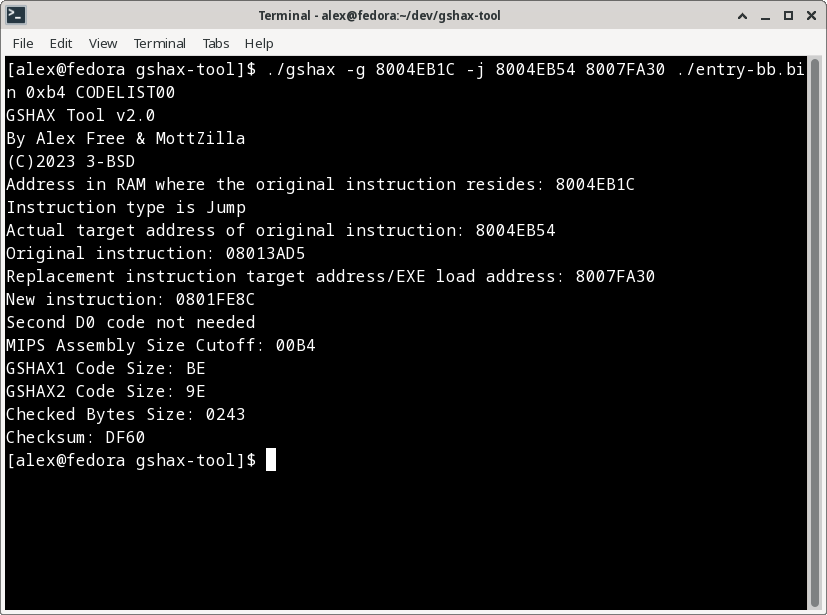
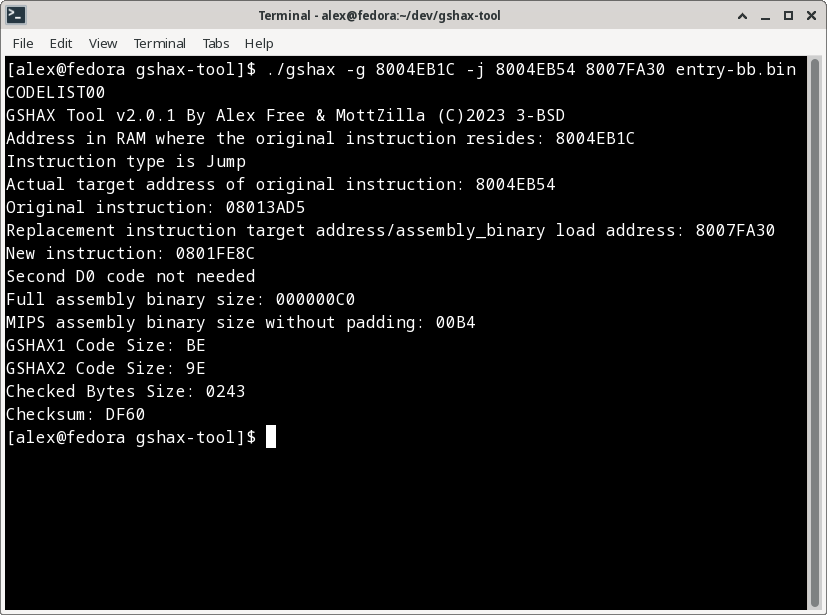
v2.0.1

diff --git a/gshax.c b/gshax.c
@@ -1,6 +1,6 @@
 /*
 BSD 3-Clause License
-Copyright (c) 2023, Alex Free & MottZilla
+Copyright (c) 2023, Alex Free, MottZilla
 All rights reserved.
 Redistribution and use in source and binary forms, with or without
 modification, are permitted provided that the following conditions are met:
@@ -29,9 +29,10 @@ OF THIS SOFTWARE, EVEN IF ADVISED OF THE POSSIBILITY OF SUCH DAMAGE.
 #include <string.h>
 #include <stdbool.h>
 
-FILE *exe, *out;
+FILE *assembly_binary, *out;
 
-unsigned int mips_assembly_bin_cutoff_offset;
+unsigned int assembly_binary_padding_offset = 0;
+unsigned int assembly_binary_len;
 unsigned int current_fpos = 0;
 unsigned int bytes_counter = 0;
 
@@ -58,6 +59,7 @@ unsigned char gs_write_byte_2;
 unsigned char gshax1_code_size = 0x80; // Code list counters always start with this offset
 unsigned char gshax2_code_size = 0x80;
 unsigned char instruction_type;
+unsigned char zero_test;
 //unsigned char wipeout[] = { 0x57, 0x49, 0x50, 0x45, 0x4F, 0x55, 0x54}; test 'WIPEOUT' known game title
 
 unsigned char start_card[] = {
@@ -160,7 +162,7 @@ void gen_txt()
 
     while(1)
     {
-        if(current_fpos == mips_assembly_bin_cutoff_offset)
+        if(current_fpos == assembly_binary_padding_offset)
             break;
 
         gs_write_byte_1 = buf[current_fpos];
@@ -257,7 +259,7 @@ void gen_gslite_save()
 
     while(1)
     {
-        if(current_fpos == mips_assembly_bin_cutoff_offset)
+        if(current_fpos == assembly_binary_padding_offset)
             break;
 
         if(bytes_counter == 0x174) // 64 line limit of codes per 'code entry'.
@@ -354,11 +356,11 @@ void gen_gslite_save()
 int main (int argc, const char * argv[]) 
 {
 
-    printf("GSHAX Tool v2.0\nBy Alex Free & MottZilla\n(C)2023 3-BSD\n");
+    printf("GSHAX Tool v2.0.1 By Alex Free & MottZilla (C)2023 3-BSD\n");
 
-   if(argc != 9)
+   if(argc != 8)
     {
-        printf("Error: gshax requires 8 arguments\n\ngshax <file output mode> <address in RAM where the original instruction resides> <instruction type> <actual target address of original instruction> <custom replacement target address/EXE load address for instruction> <mips assembly binary> <mips assembly binary padding cutoff offset> <output file>\n\nExplanation of arguments:\n\n<file output mode>    This must be -g (to generate a GameShark Lite save game file) or -t (to generate a txt file containing the codes).\n\n<address in RAM where the original instruction resides>   This is the literal RAM address that the instruction is loaded to.\n\n<instruction type>   This must be -j (for a jump instruction type that you want to change) or -jal (for a jump and link instruction type that you want to change).\n\n<actual target address of the original instruction>  This is the actual address that the original instruction either jumps or jump and links to.\n\n<custom replacement target address/EXE load address for instruction>    This is the address in RAM that is freely available and not in use at the time of the jump or jump and link instruction.\n\n<mips assembly binary>   This is the MIPS binary filepath/filename that will be jumped to by the modified instruction.\n\n<mips assembly binary padding cutoff offset>    This must be an even amount of bytes, it sets the offset to disregard any extra padding in the MIPS binary used.\n\n<output file>    This is the filepath/filename of the GameShark Lite save game file (must be CODELIST00 in that file output mode) or the name of the txt file generated by GSHAX tool.\n\n");
+        printf("Error: gshax requires 8 arguments\n\ngshax <file output mode> <address in RAM where the original instruction resides> <instruction type> <actual target address of original instruction> <custom replacement target address/assembly_binary load address for instruction> <mips assembly_binary> <output file>\n\nExplanation of arguments:\n\n<file output mode>    This must be -g (to generate a GameShark Lite save game file) or -t (to generate a txt file containing the codes).\n\n<address in RAM where the original instruction resides>   This is the literal RAM address that the instruction is loaded to.\n\n<instruction type>   This must be -j (for a jump instruction type that you want to change) or -jal (for a jump and link instruction type that you want to change).\n\n<actual target address of the original instruction>  This is the actual address that the original instruction either jumps or jump and links to.\n\n<custom replacement target address/assembly_binary load address for instruction>    This is the address in RAM that is freely available and not in use at the time of the jump or jump and link instruction.\n\n<mips assembly_binary>   This is the MIPS binary filepath/filename that will be jumped to by the modified instruction.\n\n<output file>    This is the filepath/filename of the GameShark Lite save game file (must be CODELIST00 in that file output mode) or the name of the txt file generated by GSHAX tool.\n\n");
         return(1);
     }
 
@@ -389,7 +391,7 @@ int main (int argc, const char * argv[])
     printf("Original instruction: %08X\n", original_instruction_val);
 
     new_instruction = strtoul(argv[5], NULL, 16);
-    printf("Replacement instruction target address/EXE load address: %08X\n", new_instruction);
+    printf("Replacement instruction target address/assembly_binary load address: %08X\n", new_instruction);
     bytes=(unsigned char *)&new_instruction;
     new_instruction_val = bytes[0] + (bytes[1] << 8) + (bytes[2] << 16);
     new_instruction_val = (new_instruction_val / 4);
@@ -421,46 +423,60 @@ int main (int argc, const char * argv[])
         compare_code_2_enable = 0;
     }
 
-    if((exe = fopen(argv[6], "rb+")) == NULL)
+    if((assembly_binary = fopen(argv[6], "r")) == NULL)
     {
-        printf("Error: Cannot open the executable file: %s\n", argv[6]);
+        printf("Error: Cannot open the assembly_binary file: %s\n", argv[6]);
         return(1);
     }
 
-    mips_assembly_bin_cutoff_offset = strtoul(argv[7], NULL, 16);
-    // currently only handles a maximum of up to 2 code entries. Each code entry can be up to 64 lines in length. The first 4 lines are taken up by the 2 D0 compare codes. So 60 * 2 = 120. 64 * 2 = 128. 120+128= 248 or 0xF8.
-    
-    if(mips_assembly_bin_cutoff_offset > 0xF8)
+    fseek(assembly_binary, 0, SEEK_END); // seek to end of assembly binary
+    assembly_binary_len = ftell(assembly_binary); // get total size of assembly binary
+    printf("Full assembly binary size: %08X\n", assembly_binary_len);
+
+    while(assembly_binary_len > assembly_binary_padding_offset) // assembly binary padding offset starts at 0, and is increased each loop
     {
-        printf("Error: the MIPS Assembly bin cutoff offset: %02X is too large, the maximum filesize is 248 (decimal) or 0xF8 (hex) bytes!\n", mips_assembly_bin_cutoff_offset);
-        return(1);
-    } else {
-        printf("MIPS Assembly Size Cutoff: %04X\n", mips_assembly_bin_cutoff_offset);
+        fseek(assembly_binary, (assembly_binary_len-assembly_binary_padding_offset-1), SEEK_SET); // each loop, move in file one byte back + the current assembly binary padding offset
+        zero_test = fgetc(assembly_binary); // read current byte at this file position
+        //printf("%02X\n", zero_test);
+    
+        if(zero_test != 0)
+        {
+            break; // if this is 0x00, then we don't need to write a code for it because we are already placing the assembly binary in a portion of RAM that consists of 0x00 bytes large enough to store the entire assembly binary
+        }  else {
+            assembly_binary_padding_offset++; // All bytes have been 0x00 so far, going backwards in the mips assembly binary file. So keep going until this is not the case
+        }
     }
 
-    if(mips_assembly_bin_cutoff_offset % 2 != 0)
+    assembly_binary_padding_offset = (assembly_binary_len - assembly_binary_padding_offset); // assembly binary len is still the same original value, the total size of the assembly. Subtract the final assembly binary padding offset value to get the real value we want to use as a stopping point for converting the assembly binary into 80 type GameShark codes
+
+    if(assembly_binary_padding_offset % 2 != 0)
+        assembly_binary_padding_offset++; // turn odd to even, must be even because each line of 80 type GameShark codes writes 2 bytes at a given address
+
+    if(assembly_binary_padding_offset > 0xF8)
     {
-        printf("Error: the MIPS Assembly bin cutoff offset: %02X is not divisible by two, and can not be used!\n", mips_assembly_bin_cutoff_offset);
+        printf("Error: the MIPS assembly bin cutoff offset: %02X is too large, the current maximum filesize is 248 (decimal) or 0xF8 (hex) bytes!\n", assembly_binary_padding_offset);
         return(1);
     }
-    
-    fseek(exe, 0, SEEK_SET);
-    buf = (unsigned char *)malloc(mips_assembly_bin_cutoff_offset * sizeof(unsigned char));
-    fread(buf, mips_assembly_bin_cutoff_offset, 1, exe);
+
+    printf("MIPS assembly binary size without padding: %04X\n", assembly_binary_padding_offset);
+
+    fseek(assembly_binary, 0, SEEK_SET);
+    buf = (unsigned char *)malloc(assembly_binary_padding_offset * sizeof(unsigned char));
+    fread(buf, assembly_binary_padding_offset, 1, assembly_binary);
 
 
     if((strcmp("-g", argv[1])) == 0) 
     {
-        if((out = fopen(argv[8], "wb+")) == NULL)
+        if((out = fopen(argv[7], "wb+")) == NULL)
         {
-            printf("Error: Cannot create the output file: %s\n", argv[8]);
+            printf("Error: Cannot create the output file: %s\n", argv[7]);
             return(1);
         }
         gen_gslite_save();
     } else if((strcmp("-t", argv[1])) == 0) {
-        if((out = fopen(argv[8], "w+")) == NULL)
+        if((out = fopen(argv[7], "w+")) == NULL)
         {
-            printf("Error: Cannot create the output file: %s\n", argv[8]);
+            printf("Error: Cannot create the output file: %s\n", argv[7]);
             return(1);
         }            
         gen_txt();
@@ -470,5 +486,5 @@ int main (int argc, const char * argv[])
     }
 
     fclose(out);
-    fclose(exe);
+    fclose(assembly_binary);
 }

diff --git a/readme.md b/readme.md
@@ -16,30 +16,31 @@ As an example of usefulness, GSHAX codes are [used](https://github.com/alex-free
 *	[Github](https://github.com/alex-free/gshax-tool)
 *	[Tonyhax International](https://alex-free.github.io/tonyhax-international)
 *   [PSXDev Research Thread On GSHAX Codes](http://www.psxdev.net/forum/viewtopic.php?f=70&t=4032)
+*   [GBATemp Thread](https://gbatemp.net/threads/gshax-tool-create-psx-gameshark-codes-that-gain-code-execution-mid-game.625277/)
 
 ## Downloads
 
-### Version 2.0 (3/28/2023)
+### Version 2.0.1 (4/3/2023)
 
-*	[gshax-tool-v2.0-windows\_x86](https://github.com/alex-free/gshax-tool/releases/download/v2.0/gshax-tool-v2.0-windows_x86.zip) _For Windows 95 OSR 2.5 Or Newer (32-bit Windows)_
-*	[gshax-tool-v2.0-windows\_x86\_64](https://github.com/alex-free/gshax-tool/releases/download/v2.0/gshax-tool-v2.0-windows_x86_64.zip) _For 64-bit Windows_
-*	[gshax-tool-v2.0-linux\_x86](https://github.com/alex-free/gshax-tool/releases/download/v2.0/gshax-tool-v2.0-linux_x86_static.zip) _For x86 Linux Distros_
-*	[gshax-tool-v2.0-linux\_x86\_64](https://github.com/alex-free/gshax-tool/releases/download/v2.0/gshax-tool-v2.0-linux_x86_64_static.zip) _For x86\_64 Linux Distros_
-*	[gshax-tool-v2.0-source](https://github.com/alex-free/gshax-tool/archive/refs/tags/v2.0.zip)
+*	[gshax-tool-v2.0.1-windows\_x86](https://github.com/alex-free/gshax-tool/releases/download/v2.0.1/gshax-tool-v2.0.1-windows_x86.zip) _For Windows 95 OSR 2.5 Or Newer (32-bit Windows)_
+*	[gshax-tool-v2.0.1-windows\_x86\_64](https://github.com/alex-free/gshax-tool/releases/download/v2.0.1/gshax-tool-v2.0.1-windows_x86_64.zip) _For 64-bit Windows_
+*	[gshax-tool-v2.0.1-linux\_x86](https://github.com/alex-free/gshax-tool/releases/download/v2.0.1/gshax-tool-v2.0.1-linux_x86_static.zip) _For x86 Linux Distros_
+*	[gshax-tool-v2.0.1-linux\_x86\_64](https://github.com/alex-free/gshax-tool/releases/download/v2.0.1/gshax-tool-v2.0.1-linux_x86_64_static.zip) _For x86\_64 Linux Distros_
+*	[gshax-tool-v2.0.1-source](https://github.com/alex-free/gshax-tool/archive/refs/tags/v2.0.1.zip)
 
 Changes:
 
-*   GSHAX Tool now requires 8 arguments, as it now uses a completely new method to edit either an existing jump or jump and link in-game instruction. This is a total rewrite, which removes the kludges that were the original 'mode 0' and 'mode 1' functionalities. It enables generating codes for any game (in theory).
+*   The MIPS assembly binary padding offset is now calculated automatically by the tool itself, which means GSHAX Tool now requires 7 arguments instead of 8. 
 
 [About previous versions.](changelog.md)
 
 ## Table Of Contents
 
 *   [Usage](#usage)
-*   [Step 1: Setup The DuckStation Emulator](#step-1-setup-the-duckstation)
+*   [Step 1: Setup The DuckStation Emulator](#step-1-setup-the-duckstation-emulator)
 *   [Step 2: Find An Exploitable CPU Instruction In The Target Game](#step-2-find-an-exploitable-cpu-instruction-in-the-target-game)
 *   [Step 3: The MIPS Assembly Binary](#step-3-the-mips-assembly-binary)
-*   [Step 4: Gathe Inputs For Code Creation](#step-4-gather-inputs-for-code-creation)
+*   [Step 4: Gather Inputs For Code Creation](#step-4-gather-inputs-for-code-creation)
 *   [Step 5: Generate Codes](#step-5-generate-codes)
 *   [License](#license)
 *   [Compile From Source](#compile-from-source)
@@ -127,7 +128,7 @@ Now, I choose an address well past the start of unused RAM, not really for any r
 
 **Important Info:** I have a theory that the memory cards must be initialized by the game code before the exploitable instruction is executed. While most games do this almost immediately, some games appear to not do so until entering the memory card handling functions (save/load game in the main menu for instance). WipEout appears to be like this.
 
-## Step 4: The MIPS Assembly Binary
+## Step 3: The MIPS Assembly Binary
 
 As the goal is to run your own MIPS assembly binary instead of the in-game function normally jumped or jump and linked to, you need a MIPS assembly binary file to run.
 
@@ -135,15 +136,15 @@ The original Tonyhax uses a stage 1 loader, which is a small bit of assembly exe
 
 Tonyhax International has an extremely cut down version of the original stage 1 loader available, found at `entrypoints/entry-bb.bin` in the Tonyhax International releases. The extremely cut down version of the stage 1 loader is used in save game exploits for games such as Tekken 2, Tekken 3, and Final Fantasy IV, all which require a smaller loader then what the original Tonyhax used. This is important for GSHAX Tool because the larger the size of the MIPS assembly binary, the more GameShark code lines that are required. Every 2 bytes of the MIPS assembly binary requires an additional GameShark code line. There is also a current file size limit (that may be extended, it just hasn't been needed yet).  
 
-The MIPS assembly binary itself can be no more the `0xF8` bytes in size. The Tonyhax International `entrypoints/entry-bb.bin` file is `0xb4` bytes in when you ignore the padding of `0x00` bytes in this file:
+The MIPS assembly binary itself can be no more the `0xF8` bytes in size, ignoring any `0x00` trailing padding bytes at the end of the file. GSHAX Tool automatically ignores any `0x00` byte padding when reading the mips assembly binary, so it will let you know if the MIPS assembly binary is too large to use with the tool. 
+
+For example, the Tonyhax International `entrypoints/entry-bb.bin` file is `0xC0` bytes in size. However GSHAX Tool ignores the trailing `0x00` bytes (which you can see in i.e. the hex editor image below), which means really it is `0xb4` bytes as far as GSHAX Tool is concerned.
 
 ![Padding In Assembly Binary](images/padding-in-assembly-binary.png)
 
-The padding can be ignored, because we are putting this in a free RAM location already full of `0x00` bytes, some of which will be overwrited by the MIPS assembly binary itself.
-
 ## Step 4: Gather Inputs For Code Creation
 
-In this example, we now have all we need to use GSHAX Tool. GSHAX Tool requires 8 arguments, I'll elaborate what each one is for this example:
+In this example, we now have all we need to use GSHAX Tool. GSHAX Tool requires 7 arguments, I'll elaborate what each one is for this example:
 
 1) `-g` (for generating a GameShark Lite save game file containing all the codes) or `-t` (to specify writing all the codes to a `.txt` file).
 
@@ -157,23 +158,21 @@ In this example, we now have all we need to use GSHAX Tool. GSHAX Tool requires 
 
 6) `./entry-bb.bin` (this is the MIPS assembly binary that will be executed when the modified exploitable instruction jumps to the free RAM address).
 
-7) `0xb4` (this is the size of the MIPS assembly binary after stripping off all of the `0x00` byte padding generated by the compiler. Since the 0x00 bytes are already available in the free RAM location, I don't need to set them via GameShark codes). This value must be less then `0xF8`, and it must be even.
+7) `CODELIST00` (if the output mode is `-g` for generating a GameShark Lite save game file) or `ridge-racer-usa-gshax-code.txt` (if the output mode is `-t` for generating a `.txt` file).
 
-8) `CODELIST00` (if the output mode is `-g` for generating a GameShark Lite save game file) or `ridge-racer-usa-gshax-code.txt` (if the output mode is `-t` for generating a `.txt` file).
-
-## Step 5: Putting It All Together
+## Step 5: Generate Codes
 
 With all of this information, we can now figure out a GSHAX Tool command for the game, Ridge Racer (USA version).
 
 To generate GameShark codes and output them to a `.txt` file:
 
-`./gshax -t 8004EB1C -j 8004EB54 8007FA30 ./entry-bb.bin 0xb4 ridge-racer-usa-gshax-code.txt`
+`./gshax -t 8004EB1C -j 8004EB54 8007FA30 ./entry-bb.bin ridge-racer-usa-gshax-code.txt`
 
 ![Ridge Racer USA Code Generation To TXT File](images/ridge-racer-txt-example.png)
 
 To generate a GameShark Lite save game file containing the codes:
 
-`./gshax -g 8004EB1C -j 8004EB54 8007FA30 ./entry-bb.bin 0xb4 CODELIST00`
+`./gshax -g 8004EB1C -j 8004EB54 8007FA30 ./entry-bb.bin CODELIST00`
 
 ![Ridge Racer USA Code Generation To GameShark Lite Save Game File](images/ridge-racer-gslite-save-example.png)
 
@@ -181,10 +180,14 @@ To generate a GameShark Lite save game file containing the codes:
 
 GSHAX Tool is open source software released under the 3-BSD license. Please see the file `license.txt` in each GSHAX Tool release for full info.
 
-## Compiling From Source
+## Compile From Source
 
 [Download](#downloads) the source, and simply execute `make`.
 
 ## Credits
 
-Huge thanks to MottZilla for helping reverse how the GameShark Lite save game file is read and generated, most notably how the checksum and checked area is calculated. MottZilla also helped make the new v2.0 methods that edit an existing JAL or JMP instruction a reality!
+*   [MottZilla](http://www.psxdev.net/forum/memberlist.php?mode=viewprofile&u=867) for helping reverse how the GameShark Lite save game file is read and generated, most notably how the checksum and checked area is calculated. MottZilla also helped make the new v2.0 methods that edit an existing JAL or JMP instruction a reality!
+
+*   [Socram8888](https://github.com/socram8888), who wrote the original `entry.bin` for the original [Tonyhax](https://github.com/socram8888/tonyhax). Without that starting point, I would have never have been able to pull this whole thing off.
+
+*   [James S Kingdom](https://sites.google.com/site/jamesskingdom/Home/game-codes-by-james-s/super-mario-64-codes/sm64-n64-spawn-codes) for writing N64 GameShark codes that executed assembly to provide custom in-game functions such as the spawn anything, anywhere codes. This is what gave me the idea to try this insane thing to begin with.

diff --git a/changelog.md b/changelog.md
@@ -1,3 +1,17 @@
+# Changelog
+
+## Version 2.0 (3/28/2023)
+
+*	[gshax-tool-v2.0-windows\_x86](https://github.com/alex-free/gshax-tool/releases/download/v2.0/gshax-tool-v2.0-windows_x86.zip) _For Windows 95 OSR 2.5 Or Newer (32-bit Windows)_
+*	[gshax-tool-v2.0-windows\_x86\_64](https://github.com/alex-free/gshax-tool/releases/download/v2.0/gshax-tool-v2.0-windows_x86_64.zip) _For 64-bit Windows_
+*	[gshax-tool-v2.0-linux\_x86](https://github.com/alex-free/gshax-tool/releases/download/v2.0/gshax-tool-v2.0-linux_x86_static.zip) _For x86 Linux Distros_
+*	[gshax-tool-v2.0-linux\_x86\_64](https://github.com/alex-free/gshax-tool/releases/download/v2.0/gshax-tool-v2.0-linux_x86_64_static.zip) _For x86\_64 Linux Distros_
+*	[gshax-tool-v2.0-source](https://github.com/alex-free/gshax-tool/archive/refs/tags/v2.0.zip)
+
+Changes:
+
+*   GSHAX Tool now requires 8 arguments, as it now uses a completely new method to edit either an existing jump or jump and link in-game instruction. This is a total rewrite, which removes the kludges that were the original 'mode 0' and 'mode 1' functionalities. It enables generating codes for any game (in theory).
+
 ## Version 1.0.1 (3/9/2023)
 
 *	[gshax-tool-1.0.1-windows\_x86](https://github.com/alex-free/gshax-tool/releases/download/v1.0.1/gshax-tool-1.0.1-windows_x86.zip) _For Windows 95 OSR 2.5 Or Newer (32-bit Windows)_
